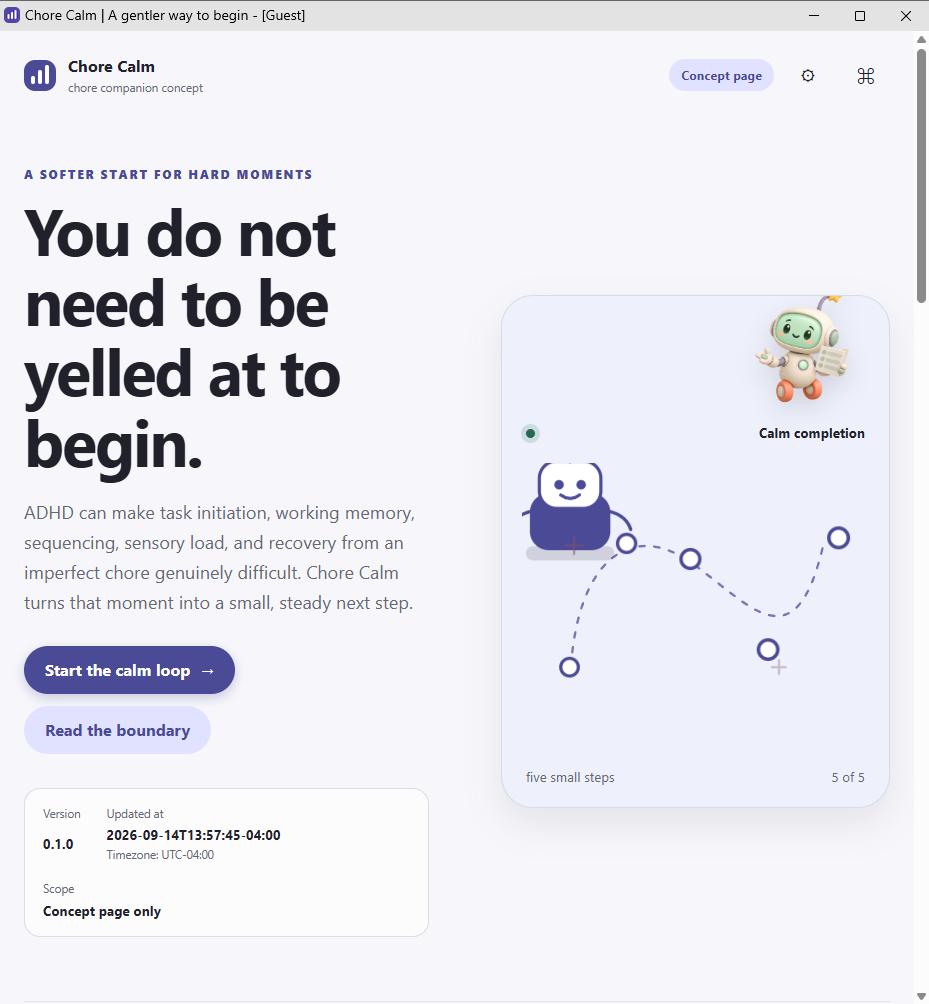
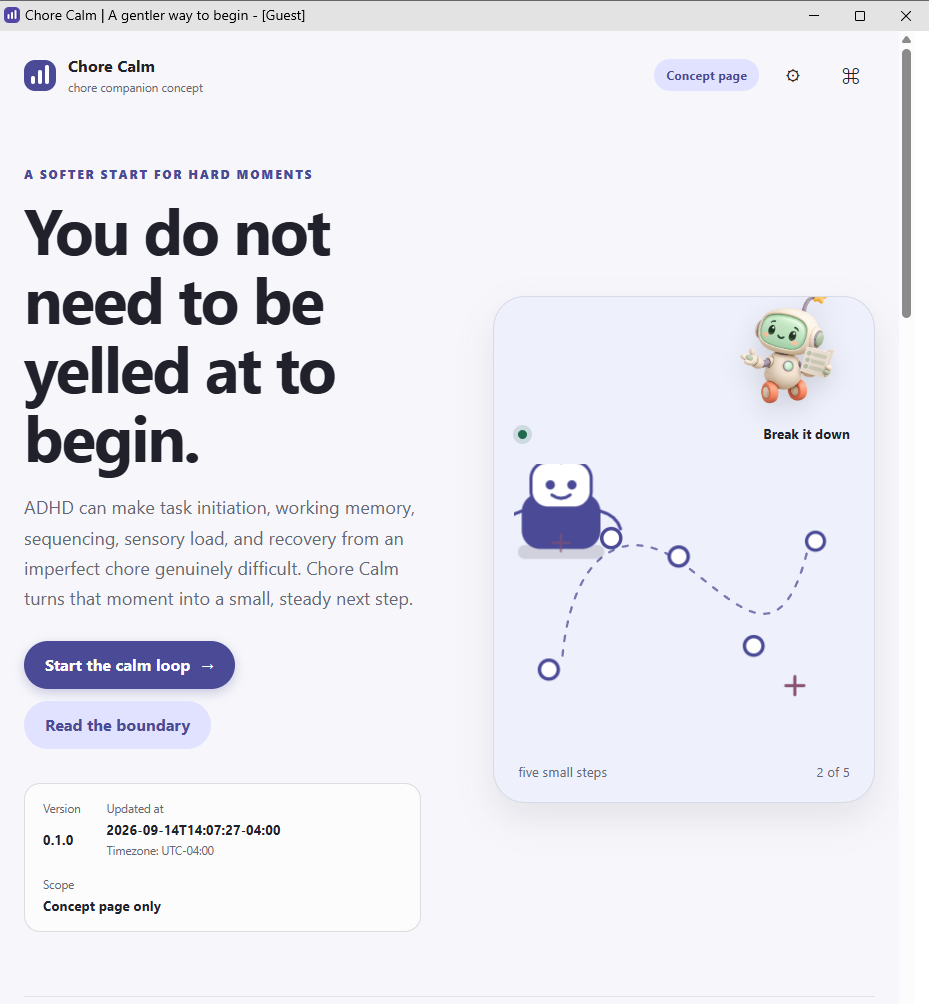
Refresh live evidence provenance
Bind the promoted headless captures and handoff to the deployed revision d15f749, keeping the evidence matrix factual and the remaining gaps explicit.

廣東話：將 headless 截圖同交接綁返已發布嘅 d15f749，證據講真話，未完成嘅地方照樣寫清楚。

diff --git a/HANDOFF.md b/HANDOFF.md
@@ -33,16 +33,17 @@ mascot files, `design/README.md`, `social-preview.png`, and the provenance helpe
 The local validation script checks the required repository contract, page entry point, metadata,
 local image inventory, documentation links, public wording boundaries, social preview dimensions,
 and build provenance. `cmd /c .\\build.bat` and strict validation pass locally at the integrated
-candidate. Pages run `34875987736` completed with green build and deploy jobs for commit
-`3944931bfcc2123ae7a63e0f43ef43f2344caec2`.
+candidate. Pages run `34878891295` completed with green build and deploy jobs for commit
+`d15f749ddbf21c302b27389cc4f545fd81fde4fd`.
 
 The published URL is `https://ding-ding-projects.github.io/chore-calm/`. The live response returned
 HTTP 200, served the expected title, version surface, Open Graph metadata, mascot path, and
 commit-bound provenance. The root social preview returned HTTP 200 with 265801 bytes. The first
 verified desktop, settings, and emulated-mobile captures are committed under
-`evidence/headless/20260914/`. The complete capture matrix, physical-touch review, and a release
-remain open. The earlier red run is retained as the historical default-ref failure on
-`chore-calm-docs`.
+`evidence/headless/20260914/` and are bound to live revision
+`d15f749ddbf21c302b27389cc4f545fd81fde4fd`. The complete capture matrix, physical-touch review,
+and a release remain open. The earlier red run is retained as the historical default-ref failure
+on `chore-calm-docs`.
 
 ## Public tracking
 

diff --git a/evidence/headless/20260914/README.md b/evidence/headless/20260914/README.md
@@ -1,8 +1,8 @@
 # Built page evidence, 2026-09-14
 
 These captures were taken from the deployed Chore Calm page through the isolated cheap
-Lowlevel headless route. They are tied to deployment run `34877909162` and live provenance
-commit `36b1c41ff685faa492a294512c546500bd5612b9`.
+Lowlevel headless route. They are tied to deployment run `34878891295` and live provenance
+commit `d15f749ddbf21c302b27389cc4f545fd81fde4fd`.
 
 The desktop and settings captures are whole-window PNGs from the hidden Edge window. The portrait
 capture is page-only CDP evidence with touch emulation, so it is labelled as emulated mobile
@@ -10,7 +10,7 @@ evidence rather than physical-device proof.
 
 | State | Tuple | Capture |
 | --- | --- | --- |
-| Initial hero and version provenance | 929 x 1004, scale 1, English, light, idle | [desktop-1440x1000.png](desktop-1440x1000.png) |
+| Hero with the Break it down story step and version provenance | 929 x 1004, scale 1, English, light | [desktop-1440x1000.png](desktop-1440x1000.png) |
 | Settings with language, tone, theme, narration, and local JSON controls | 929 x 1004, scale 1, English, light | [settings-1440x1000.png](settings-1440x1000.png) |
 | Narrow initial hero and provenance | 390 x 844, scale 1, touch-emulated, English, light | [mobile-390x844.png](mobile-390x844.png) |
 

diff --git a/README.md b/README.md
@@ -48,8 +48,9 @@ The live response returned HTTP 200 from `main` after Pages deployment run `3487
 
 ## Built page evidence
 
-The current published page has inspected evidence from the isolated cheap Lowlevel headless route.
-The captures show the real deployed page, not a mock or design preview.
+The Oak Kay includes inspected evidence from the isolated cheap Lowlevel headless route, bound to
+live revision `d15f749ddbf21c302b27389cc4f545fd81fde4fd`. The captures show the real deployed page,
+not a mock or design preview.
 
 <details>
 <summary>Open representative live captures</summary>
